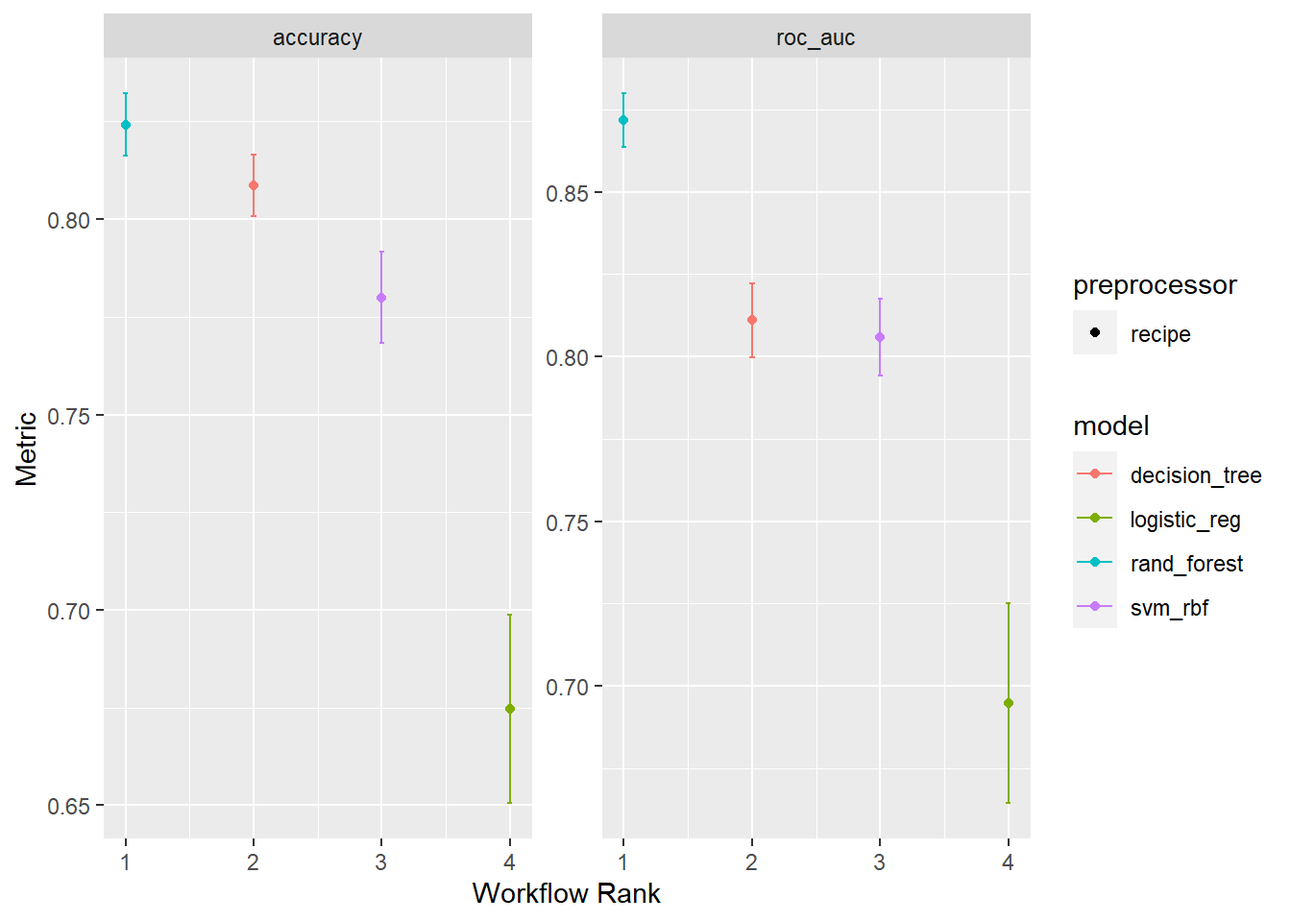
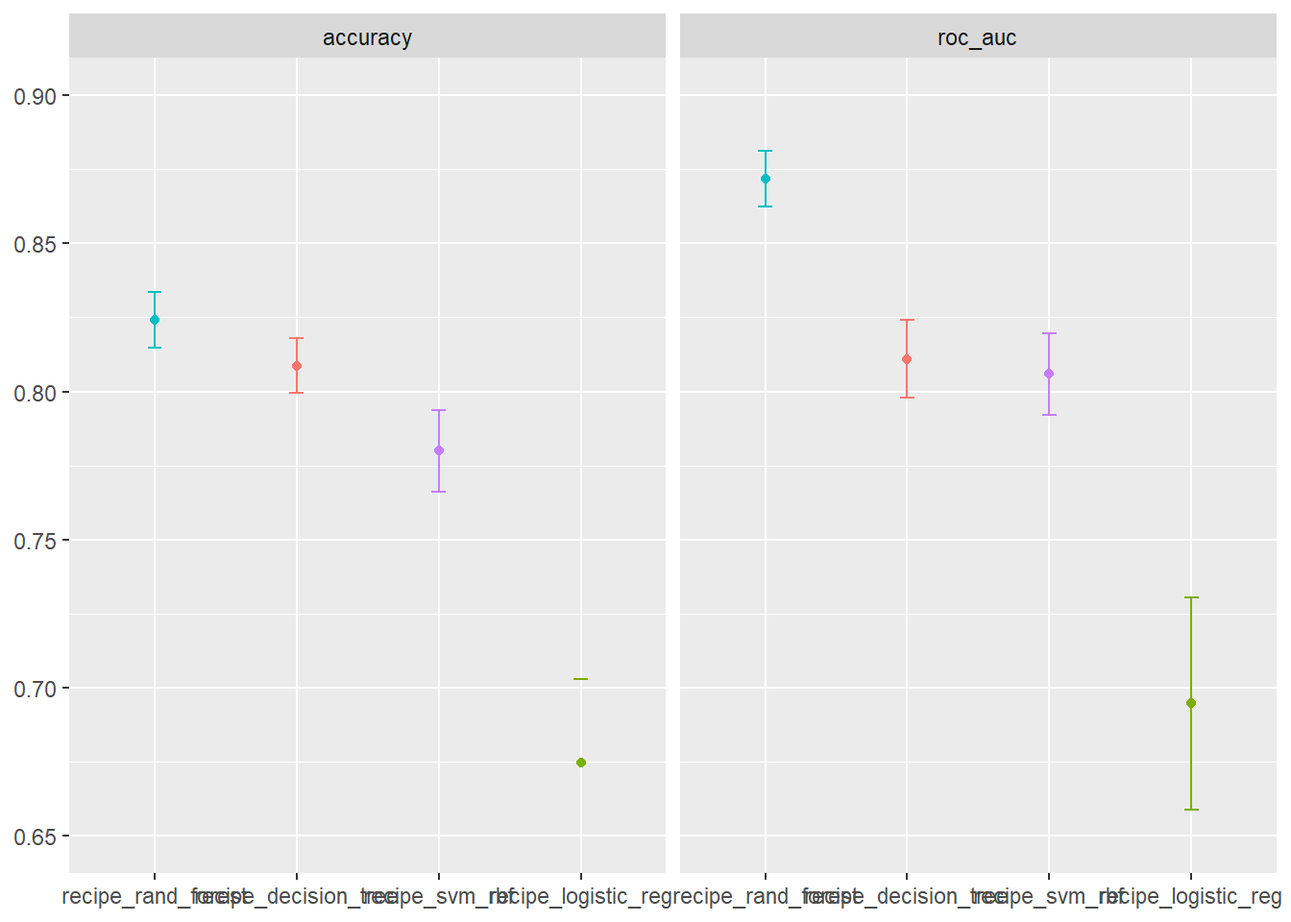
blog post ready to launch

diff --git a/_site/posts/2023-03-06-day-14-of-50daysofkaggle/index.html b/_site/posts/2023-03-06-day-14-of-50daysofkaggle/index.html
@@ -248,12 +248,14 @@ gtag('config', 'G-T5T39KBDW1', { 'anonymize_ip': true});
   <li><a href="#step-7-8-fitting-the-winner-and-predictions" id="toc-step-7-8-fitting-the-winner-and-predictions" class="nav-link" data-scroll-target="#step-7-8-fitting-the-winner-and-predictions">Step 7 &amp; 8: Fitting the winner and predictions</a></li>
   <li><a href="#step-9-submit-to-kaggle" id="toc-step-9-submit-to-kaggle" class="nav-link" data-scroll-target="#step-9-submit-to-kaggle">Step 9: Submit to Kaggle</a></li>
   </ul></li>
+  <li><a href="#understanding-variable-importance" id="toc-understanding-variable-importance" class="nav-link" data-scroll-target="#understanding-variable-importance">Understanding variable importance</a></li>
   <li><a href="#tailpiece-regarding-autoplot" id="toc-tailpiece-regarding-autoplot" class="nav-link" data-scroll-target="#tailpiece-regarding-autoplot">Tailpiece regarding <code>autoplot()</code></a>
   <ul class="collapse">
   <li><a href="#peeking-under-the-hood" id="toc-peeking-under-the-hood" class="nav-link" data-scroll-target="#peeking-under-the-hood">Peeking under the hood</a></li>
   <li><a href="#extracting-the-tibbles" id="toc-extracting-the-tibbles" class="nav-link" data-scroll-target="#extracting-the-tibbles">Extracting the tibbles</a></li>
   <li><a href="#manually-generated-plot" id="toc-manually-generated-plot" class="nav-link" data-scroll-target="#manually-generated-plot">Manually generated plot</a></li>
   </ul></li>
+  <li><a href="#section" id="toc-section" class="nav-link" data-scroll-target="#section"></a></li>
   </ul>
 </nav>
     </div>
@@ -441,7 +443,7 @@ $ source      &lt;chr&gt; "train", "train", "train", "train", "train", "train", 
 2 train         0     0      0     0     0</code></pre>
 </div>
 </div>
-<p>Phew. So age is covered. What are the median values now?</p>
+<p>Phew. So <strong>age</strong> is covered but one <code>NA</code> in <strong>fare</strong>. What are the median age values now?</p>
 <div class="cell">
 <details>
 <summary>Code</summary>
@@ -788,12 +790,8 @@ $ groups_in_ticket   &lt;int&gt; 1, 1, 1, 1, 1, 1, 1, 1, 1, 2, 1, 1, 1, 1, 1, 1,
 $ final_grouping     &lt;fct&gt; Kelly_33091, Wilkes_36327, Myles_24027, Wirz_31515,…</code></pre>
 </div>
 </div>
-<p>Phew. finally done with the pre-processing. Thanks for sticking around. Here have a gif</p>
-<div class="quarto-figure quarto-figure-center">
-<figure class="figure">
-<p><img src="https://media.giphy.com/media/lSVXGiITXtabGGxAyg/giphy.gif" class="img-fluid figure-img" width="240"></p>
-</figure>
-</div>
+<p>Phew. finally done with the pre-processing. Thanks for sticking around. Here have a gif.</p>
+<p><img src="https://media.giphy.com/media/lSVXGiITXtabGGxAyg/giphy.gif" class="img-fluid" style="width:75.0%"></p>
 </section>
 </section>
 <section id="model-building" class="level1">
@@ -959,7 +957,7 @@ $ final_grouping     &lt;fct&gt; Kelly_33091, Wilkes_36327, Myles_24027, Wirz_31
 <div class="sourceCode cell-code" id="cb49"><pre class="sourceCode r code-with-copy"><code class="sourceCode r"><span id="cb49-1"><a href="#cb49-1" aria-hidden="true" tabindex="-1"></a>end_time <span class="sc">-</span> start_time</span></code><button title="Copy to Clipboard" class="code-copy-button"><i class="bi"></i></button></pre></div>
 </details>
 <div class="cell-output cell-output-stdout">
-<pre><code>Time difference of 11.58433 mins</code></pre>
+<pre><code>Time difference of 10.71708 mins</code></pre>
 </div>
 </div>
 <p>Hmm… So moving on. What does the workflow_set object look like now?</p>
@@ -1111,12 +1109,8 @@ OOB prediction error (Brier s.):  0.1386875 </code></pre>
 </details>
 </div>
 <p>Uploaded it to Kaggle and behold…</p>
-<div class="quarto-figure quarto-figure-center">
-<figure class="figure">
-<p><img src="images/image-1373401355.png" class="img-fluid figure-img"></p>
-</figure>
-</div>
-<p>Not bad !!! that’s like top 12% percentile.</p>
+<p><img src="images/image-1373401355.png" class="img-fluid"></p>
+<p>Not bad !!! that’s like… top 12% percentile. Woohoo!</p>
 <div class="quarto-figure quarto-figure-center">
 <figure class="figure">
 <p><img src="https://media.giphy.com/media/7zYKTVt3vvbj7SC2Bl/giphy.gif" class="img-fluid figure-img" style="width:50.0%"></p>
@@ -1124,6 +1118,32 @@ OOB prediction error (Brier s.):  0.1386875 </code></pre>
 </figure>
 </div>
 </section>
+</section>
+<section id="understanding-variable-importance" class="level1">
+<h1>Understanding variable importance</h1>
+<p>Since we’ve got a random forest winner, I wanted to take a look at the importance of the variables used.</p>
+<p>Inspired from Julia’s <a href="https://juliasilge.com/blog/ikea-prices/">Tidy Tuesday on Ikea Prices</a>. For a ranger model, we do need to go back to the model specification itself and update the engine with <code>importance = "permutation"</code> in order to compute feature importance. This means fitting the model one more time.</p>
+<div class="cell">
+<details>
+<summary>Code</summary>
+<div class="sourceCode cell-code" id="cb63"><pre class="sourceCode r code-with-copy"><code class="sourceCode r"><span id="cb63-1"><a href="#cb63-1" aria-hidden="true" tabindex="-1"></a><span class="fu">library</span>(vip)</span>
+<span id="cb63-2"><a href="#cb63-2" aria-hidden="true" tabindex="-1"></a></span>
+<span id="cb63-3"><a href="#cb63-3" aria-hidden="true" tabindex="-1"></a>rf_model2 <span class="ot">&lt;-</span> <span class="fu">rand_forest</span>(<span class="at">trees =</span> <span class="dv">1000</span>) <span class="sc">%&gt;%</span> </span>
+<span id="cb63-4"><a href="#cb63-4" aria-hidden="true" tabindex="-1"></a>  <span class="fu">set_engine</span>(<span class="st">"ranger"</span>, <span class="at">importance =</span> <span class="st">"permutation"</span>) <span class="sc">%&gt;%</span> </span>
+<span id="cb63-5"><a href="#cb63-5" aria-hidden="true" tabindex="-1"></a>  <span class="fu">set_mode</span>(<span class="st">"classification"</span>)</span>
+<span id="cb63-6"><a href="#cb63-6" aria-hidden="true" tabindex="-1"></a></span>
+<span id="cb63-7"><a href="#cb63-7" aria-hidden="true" tabindex="-1"></a><span class="fu">workflow</span>() <span class="sc">%&gt;%</span> </span>
+<span id="cb63-8"><a href="#cb63-8" aria-hidden="true" tabindex="-1"></a>  <span class="fu">add_recipe</span>(base_recipe) <span class="sc">%&gt;%</span> </span>
+<span id="cb63-9"><a href="#cb63-9" aria-hidden="true" tabindex="-1"></a>  <span class="fu">add_model</span>(rf_model2) <span class="sc">%&gt;%</span> </span>
+<span id="cb63-10"><a href="#cb63-10" aria-hidden="true" tabindex="-1"></a>  <span class="fu">fit</span>(given_data) <span class="sc">%&gt;%</span> </span>
+<span id="cb63-11"><a href="#cb63-11" aria-hidden="true" tabindex="-1"></a>  <span class="fu">pull_workflow_fit</span>() <span class="sc">%&gt;%</span> </span>
+<span id="cb63-12"><a href="#cb63-12" aria-hidden="true" tabindex="-1"></a>  <span class="fu">vip</span>(<span class="at">aesthetics =</span> <span class="fu">list</span>(<span class="at">alpha=</span> <span class="fl">0.8</span>, <span class="at">fill =</span> <span class="st">"green"</span>))</span></code><button title="Copy to Clipboard" class="code-copy-button"><i class="bi"></i></button></pre></div>
+</details>
+<div class="cell-output-display">
+<p><img src="index_files/figure-html/unnamed-chunk-37-1.png" class="img-fluid" width="672"></p>
+</div>
+</div>
+<p>This is interesting to me. While I was expecting the <strong>gender</strong> and <strong>class</strong> predictors to play an important part in the model, other grouped columns like <strong>family_count, pax_in_group &amp; pax_in_ticket_head</strong> also added in improving the accuracy.</p>
 </section>
 <section id="tailpiece-regarding-autoplot" class="level1">
 <h1>Tailpiece regarding <code>autoplot()</code></h1>
@@ -1138,7 +1158,7 @@ OOB prediction error (Brier s.):  0.1386875 </code></pre>
 <div class="cell">
 <details>
 <summary>Code</summary>
-<div class="sourceCode cell-code" id="cb63"><pre class="sourceCode r code-with-copy"><code class="sourceCode r"><span id="cb63-1"><a href="#cb63-1" aria-hidden="true" tabindex="-1"></a><span class="fu">class</span>(titanic_rs)</span></code><button title="Copy to Clipboard" class="code-copy-button"><i class="bi"></i></button></pre></div>
+<div class="sourceCode cell-code" id="cb64"><pre class="sourceCode r code-with-copy"><code class="sourceCode r"><span id="cb64-1"><a href="#cb64-1" aria-hidden="true" tabindex="-1"></a><span class="fu">class</span>(titanic_rs)</span></code><button title="Copy to Clipboard" class="code-copy-button"><i class="bi"></i></button></pre></div>
 </details>
 <div class="cell-output cell-output-stdout">
 <pre><code>[1] "workflow_set" "tbl_df"       "tbl"          "data.frame"  </code></pre>
@@ -1148,7 +1168,7 @@ OOB prediction error (Brier s.):  0.1386875 </code></pre>
 <div class="cell">
 <details>
 <summary>Code</summary>
-<div class="sourceCode cell-code" id="cb65"><pre class="sourceCode r code-with-copy"><code class="sourceCode r"><span id="cb65-1"><a href="#cb65-1" aria-hidden="true" tabindex="-1"></a>titanic_rs</span></code><button title="Copy to Clipboard" class="code-copy-button"><i class="bi"></i></button></pre></div>
+<div class="sourceCode cell-code" id="cb66"><pre class="sourceCode r code-with-copy"><code class="sourceCode r"><span id="cb66-1"><a href="#cb66-1" aria-hidden="true" tabindex="-1"></a>titanic_rs</span></code><button title="Copy to Clipboard" class="code-copy-button"><i class="bi"></i></button></pre></div>
 </details>
 <div class="cell-output cell-output-stdout">
 <pre><code># A workflow set/tibble: 4 × 4
@@ -1164,7 +1184,7 @@ OOB prediction error (Brier s.):  0.1386875 </code></pre>
 <div class="cell">
 <details>
 <summary>Code</summary>
-<div class="sourceCode cell-code" id="cb67"><pre class="sourceCode r code-with-copy"><code class="sourceCode r"><span id="cb67-1"><a href="#cb67-1" aria-hidden="true" tabindex="-1"></a>titanic_rs<span class="sc">$</span>result[[<span class="dv">1</span>]]</span></code><button title="Copy to Clipboard" class="code-copy-button"><i class="bi"></i></button></pre></div>
+<div class="sourceCode cell-code" id="cb68"><pre class="sourceCode r code-with-copy"><code class="sourceCode r"><span id="cb68-1"><a href="#cb68-1" aria-hidden="true" tabindex="-1"></a>titanic_rs<span class="sc">$</span>result[[<span class="dv">1</span>]]</span></code><button title="Copy to Clipboard" class="code-copy-button"><i class="bi"></i></button></pre></div>
 </details>
 <div class="cell-output cell-output-stdout">
 <pre><code># Resampling results
@@ -1199,7 +1219,7 @@ Run `show_notes(.Last.tune.result)` for more information.</code></pre>
 <div class="cell">
 <details>
 <summary>Code</summary>
-<div class="sourceCode cell-code" id="cb69"><pre class="sourceCode r code-with-copy"><code class="sourceCode r"><span id="cb69-1"><a href="#cb69-1" aria-hidden="true" tabindex="-1"></a>titanic_rs<span class="sc">$</span>result[[<span class="dv">1</span>]]<span class="sc">$</span>.metrics[[<span class="dv">1</span>]]</span></code><button title="Copy to Clipboard" class="code-copy-button"><i class="bi"></i></button></pre></div>
+<div class="sourceCode cell-code" id="cb70"><pre class="sourceCode r code-with-copy"><code class="sourceCode r"><span id="cb70-1"><a href="#cb70-1" aria-hidden="true" tabindex="-1"></a>titanic_rs<span class="sc">$</span>result[[<span class="dv">1</span>]]<span class="sc">$</span>.metrics[[<span class="dv">1</span>]]</span></code><button title="Copy to Clipboard" class="code-copy-button"><i class="bi"></i></button></pre></div>
 </details>
 <div class="cell-output cell-output-stdout">
 <pre><code># A tibble: 2 × 4
@@ -1216,12 +1236,12 @@ Run `show_notes(.Last.tune.result)` for more information.</code></pre>
 <div class="cell">
 <details>
 <summary>Code</summary>
-<div class="sourceCode cell-code" id="cb71"><pre class="sourceCode r code-with-copy"><code class="sourceCode r"><span id="cb71-1"><a href="#cb71-1" aria-hidden="true" tabindex="-1"></a>tidy_titanic_rs <span class="ot">&lt;-</span> <span class="fu">tibble</span>(<span class="at">wf =</span> <span class="fu">rep</span>(<span class="fu">unique</span>(titanic_rs<span class="sc">$</span>wflow_id), <span class="dv">15</span><span class="sc">*</span><span class="dv">2</span>),</span>
-<span id="cb71-2"><a href="#cb71-2" aria-hidden="true" tabindex="-1"></a>                          <span class="at">metrics =</span> <span class="fu">rep</span>(<span class="fu">c</span>(<span class="fu">rep</span>(<span class="st">"accuracy"</span>, <span class="dv">4</span>), </span>
-<span id="cb71-3"><a href="#cb71-3" aria-hidden="true" tabindex="-1"></a>                                          <span class="fu">rep</span>(<span class="st">"roc_auc"</span>,<span class="dv">4</span>)),</span>
-<span id="cb71-4"><a href="#cb71-4" aria-hidden="true" tabindex="-1"></a>                                        <span class="dv">15</span>),</span>
-<span id="cb71-5"><a href="#cb71-5" aria-hidden="true" tabindex="-1"></a>                          <span class="at">values =</span> <span class="fu">rep</span>(<span class="cn">NA</span>, <span class="dv">4</span><span class="sc">*</span><span class="dv">15</span><span class="sc">*</span><span class="dv">2</span>))</span>
-<span id="cb71-6"><a href="#cb71-6" aria-hidden="true" tabindex="-1"></a><span class="fu">head</span>(tidy_titanic_rs, <span class="dv">8</span>)</span></code><button title="Copy to Clipboard" class="code-copy-button"><i class="bi"></i></button></pre></div>
+<div class="sourceCode cell-code" id="cb72"><pre class="sourceCode r code-with-copy"><code class="sourceCode r"><span id="cb72-1"><a href="#cb72-1" aria-hidden="true" tabindex="-1"></a>tidy_titanic_rs <span class="ot">&lt;-</span> <span class="fu">tibble</span>(<span class="at">wf =</span> <span class="fu">rep</span>(<span class="fu">unique</span>(titanic_rs<span class="sc">$</span>wflow_id), <span class="dv">15</span><span class="sc">*</span><span class="dv">2</span>),</span>
+<span id="cb72-2"><a href="#cb72-2" aria-hidden="true" tabindex="-1"></a>                          <span class="at">metrics =</span> <span class="fu">rep</span>(<span class="fu">c</span>(<span class="fu">rep</span>(<span class="st">"accuracy"</span>, <span class="dv">4</span>), </span>
+<span id="cb72-3"><a href="#cb72-3" aria-hidden="true" tabindex="-1"></a>                                          <span class="fu">rep</span>(<span class="st">"roc_auc"</span>,<span class="dv">4</span>)),</span>
+<span id="cb72-4"><a href="#cb72-4" aria-hidden="true" tabindex="-1"></a>                                        <span class="dv">15</span>),</span>
+<span id="cb72-5"><a href="#cb72-5" aria-hidden="true" tabindex="-1"></a>                          <span class="at">values =</span> <span class="fu">rep</span>(<span class="cn">NA</span>, <span class="dv">4</span><span class="sc">*</span><span class="dv">15</span><span class="sc">*</span><span class="dv">2</span>))</span>
+<span id="cb72-6"><a href="#cb72-6" aria-hidden="true" tabindex="-1"></a><span class="fu">head</span>(tidy_titanic_rs, <span class="dv">8</span>)</span></code><button title="Copy to Clipboard" class="code-copy-button"><i class="bi"></i></button></pre></div>
 </details>
 <div class="cell-output cell-output-stdout">
 <pre><code># A tibble: 8 × 3
@@ -1241,7 +1261,7 @@ Run `show_notes(.Last.tune.result)` for more information.</code></pre>
 <div class="cell">
 <details>
 <summary>Code</summary>
-<div class="sourceCode cell-code" id="cb73"><pre class="sourceCode r code-with-copy"><code class="sourceCode r"><span id="cb73-1"><a href="#cb73-1" aria-hidden="true" tabindex="-1"></a><span class="fu">dim</span>(tidy_titanic_rs)</span></code><button title="Copy to Clipboard" class="code-copy-button"><i class="bi"></i></button></pre></div>
+<div class="sourceCode cell-code" id="cb74"><pre class="sourceCode r code-with-copy"><code class="sourceCode r"><span id="cb74-1"><a href="#cb74-1" aria-hidden="true" tabindex="-1"></a><span class="fu">dim</span>(tidy_titanic_rs)</span></code><button title="Copy to Clipboard" class="code-copy-button"><i class="bi"></i></button></pre></div>
 </details>
 <div class="cell-output cell-output-stdout">
 <pre><code>[1] 120   3</code></pre>
@@ -1255,32 +1275,32 @@ Run `show_notes(.Last.tune.result)` for more information.</code></pre>
 <div class="cell">
 <details>
 <summary>Code</summary>
-<div class="sourceCode cell-code" id="cb75"><pre class="sourceCode r code-with-copy"><code class="sourceCode r"><span id="cb75-1"><a href="#cb75-1" aria-hidden="true" tabindex="-1"></a>bigtable <span class="ot">&lt;-</span> purrr<span class="sc">:::</span><span class="fu">pluck</span>(titanic_rs, <span class="dv">4</span>)</span>
-<span id="cb75-2"><a href="#cb75-2" aria-hidden="true" tabindex="-1"></a>wflow_id_titanic <span class="ot">&lt;-</span> <span class="fu">unique</span>(titanic_rs<span class="sc">$</span>wflow_id)</span>
-<span id="cb75-3"><a href="#cb75-3" aria-hidden="true" tabindex="-1"></a><span class="cf">for</span>(i <span class="cf">in</span> <span class="dv">1</span><span class="sc">:</span><span class="fu">length</span>(wflow_id_titanic)){</span>
-<span id="cb75-4"><a href="#cb75-4" aria-hidden="true" tabindex="-1"></a>    </span>
-<span id="cb75-5"><a href="#cb75-5" aria-hidden="true" tabindex="-1"></a>  wflow_id <span class="ot">&lt;-</span> wflow_id_titanic[i]</span>
-<span id="cb75-6"><a href="#cb75-6" aria-hidden="true" tabindex="-1"></a>  smalltable <span class="ot">&lt;-</span> bigtable[[i]]</span>
-<span id="cb75-7"><a href="#cb75-7" aria-hidden="true" tabindex="-1"></a>  </span>
-<span id="cb75-8"><a href="#cb75-8" aria-hidden="true" tabindex="-1"></a>  <span class="cf">for</span>(j <span class="cf">in</span> <span class="dv">1</span><span class="sc">:</span><span class="fu">length</span>(smalltable<span class="sc">$</span>.metrics)){</span>
-<span id="cb75-9"><a href="#cb75-9" aria-hidden="true" tabindex="-1"></a>    smallertable <span class="ot">&lt;-</span> purrr<span class="sc">::</span><span class="fu">pluck</span>(smalltable<span class="sc">$</span>.metrics, j)</span>
-<span id="cb75-10"><a href="#cb75-10" aria-hidden="true" tabindex="-1"></a>    tidy_titanic_rs<span class="sc">$</span>values[(tidy_titanic_rs<span class="sc">$</span>wf<span class="sc">==</span>wflow_id <span class="sc">&amp;</span> </span>
-<span id="cb75-11"><a href="#cb75-11" aria-hidden="true" tabindex="-1"></a>                              tidy_titanic_rs<span class="sc">$</span>metrics<span class="sc">==</span><span class="st">"accuracy"</span>)][j] <span class="ot">&lt;-</span> smallertable<span class="sc">$</span>.estimate[smallertable<span class="sc">$</span>.metric <span class="sc">==</span> <span class="st">"accuracy"</span>]</span>
-<span id="cb75-12"><a href="#cb75-12" aria-hidden="true" tabindex="-1"></a>    tidy_titanic_rs<span class="sc">$</span>values[(tidy_titanic_rs<span class="sc">$</span>wf<span class="sc">==</span>wflow_id <span class="sc">&amp;</span> </span>
-<span id="cb75-13"><a href="#cb75-13" aria-hidden="true" tabindex="-1"></a>                              tidy_titanic_rs<span class="sc">$</span>metrics<span class="sc">==</span><span class="st">"roc_auc"</span>)][j] <span class="ot">&lt;-</span> smallertable<span class="sc">$</span>.estimate[smallertable<span class="sc">$</span>.metric <span class="sc">==</span> <span class="st">"roc_auc"</span>]</span>
-<span id="cb75-14"><a href="#cb75-14" aria-hidden="true" tabindex="-1"></a>    </span>
-<span id="cb75-15"><a href="#cb75-15" aria-hidden="true" tabindex="-1"></a>  }</span>
-<span id="cb75-16"><a href="#cb75-16" aria-hidden="true" tabindex="-1"></a>}</span>
-<span id="cb75-17"><a href="#cb75-17" aria-hidden="true" tabindex="-1"></a></span>
-<span id="cb75-18"><a href="#cb75-18" aria-hidden="true" tabindex="-1"></a>tidy_titanic_rs2 <span class="ot">&lt;-</span> tidy_titanic_rs <span class="sc">%&gt;%</span> </span>
-<span id="cb75-19"><a href="#cb75-19" aria-hidden="true" tabindex="-1"></a>  <span class="fu">group_by</span>(wf, metrics) <span class="sc">%&gt;%</span> </span>
-<span id="cb75-20"><a href="#cb75-20" aria-hidden="true" tabindex="-1"></a>  <span class="fu">summarise</span>(<span class="at">value_min =</span> <span class="fu">mean</span>(values) <span class="sc">-</span> <span class="fl">0.5</span><span class="sc">*</span><span class="fu">sd</span>(values),</span>
-<span id="cb75-21"><a href="#cb75-21" aria-hidden="true" tabindex="-1"></a>            <span class="at">value_max =</span> <span class="fu">mean</span>(values) <span class="sc">+</span> <span class="fl">0.5</span><span class="sc">*</span><span class="fu">sd</span>(values),</span>
-<span id="cb75-22"><a href="#cb75-22" aria-hidden="true" tabindex="-1"></a>            <span class="at">value_mean =</span> <span class="fu">mean</span>(values)) <span class="sc">%&gt;%</span> <span class="fu">ungroup</span>() <span class="sc">%&gt;%</span> </span>
-<span id="cb75-23"><a href="#cb75-23" aria-hidden="true" tabindex="-1"></a>  <span class="fu">right_join</span>(tidy_titanic_rs, <span class="at">by =</span> <span class="fu">c</span>(<span class="st">"wf"</span>, <span class="st">"metrics"</span>))</span></code><button title="Copy to Clipboard" class="code-copy-button"><i class="bi"></i></button></pre></div>
+<div class="sourceCode cell-code" id="cb76"><pre class="sourceCode r code-with-copy"><code class="sourceCode r"><span id="cb76-1"><a href="#cb76-1" aria-hidden="true" tabindex="-1"></a>bigtable <span class="ot">&lt;-</span> purrr<span class="sc">:::</span><span class="fu">pluck</span>(titanic_rs, <span class="dv">4</span>)</span>
+<span id="cb76-2"><a href="#cb76-2" aria-hidden="true" tabindex="-1"></a>wflow_id_titanic <span class="ot">&lt;-</span> <span class="fu">unique</span>(titanic_rs<span class="sc">$</span>wflow_id)</span>
+<span id="cb76-3"><a href="#cb76-3" aria-hidden="true" tabindex="-1"></a><span class="cf">for</span>(i <span class="cf">in</span> <span class="dv">1</span><span class="sc">:</span><span class="fu">length</span>(wflow_id_titanic)){</span>
+<span id="cb76-4"><a href="#cb76-4" aria-hidden="true" tabindex="-1"></a>    </span>
+<span id="cb76-5"><a href="#cb76-5" aria-hidden="true" tabindex="-1"></a>  wflow_id <span class="ot">&lt;-</span> wflow_id_titanic[i]</span>
+<span id="cb76-6"><a href="#cb76-6" aria-hidden="true" tabindex="-1"></a>  smalltable <span class="ot">&lt;-</span> bigtable[[i]]</span>
+<span id="cb76-7"><a href="#cb76-7" aria-hidden="true" tabindex="-1"></a>  </span>
+<span id="cb76-8"><a href="#cb76-8" aria-hidden="true" tabindex="-1"></a>  <span class="cf">for</span>(j <span class="cf">in</span> <span class="dv">1</span><span class="sc">:</span><span class="fu">length</span>(smalltable<span class="sc">$</span>.metrics)){</span>
+<span id="cb76-9"><a href="#cb76-9" aria-hidden="true" tabindex="-1"></a>    smallertable <span class="ot">&lt;-</span> purrr<span class="sc">::</span><span class="fu">pluck</span>(smalltable<span class="sc">$</span>.metrics, j)</span>
+<span id="cb76-10"><a href="#cb76-10" aria-hidden="true" tabindex="-1"></a>    tidy_titanic_rs<span class="sc">$</span>values[(tidy_titanic_rs<span class="sc">$</span>wf<span class="sc">==</span>wflow_id <span class="sc">&amp;</span> </span>
+<span id="cb76-11"><a href="#cb76-11" aria-hidden="true" tabindex="-1"></a>                              tidy_titanic_rs<span class="sc">$</span>metrics<span class="sc">==</span><span class="st">"accuracy"</span>)][j] <span class="ot">&lt;-</span> smallertable<span class="sc">$</span>.estimate[smallertable<span class="sc">$</span>.metric <span class="sc">==</span> <span class="st">"accuracy"</span>]</span>
+<span id="cb76-12"><a href="#cb76-12" aria-hidden="true" tabindex="-1"></a>    tidy_titanic_rs<span class="sc">$</span>values[(tidy_titanic_rs<span class="sc">$</span>wf<span class="sc">==</span>wflow_id <span class="sc">&amp;</span> </span>
+<span id="cb76-13"><a href="#cb76-13" aria-hidden="true" tabindex="-1"></a>                              tidy_titanic_rs<span class="sc">$</span>metrics<span class="sc">==</span><span class="st">"roc_auc"</span>)][j] <span class="ot">&lt;-</span> smallertable<span class="sc">$</span>.estimate[smallertable<span class="sc">$</span>.metric <span class="sc">==</span> <span class="st">"roc_auc"</span>]</span>
+<span id="cb76-14"><a href="#cb76-14" aria-hidden="true" tabindex="-1"></a>    </span>
+<span id="cb76-15"><a href="#cb76-15" aria-hidden="true" tabindex="-1"></a>  }</span>
+<span id="cb76-16"><a href="#cb76-16" aria-hidden="true" tabindex="-1"></a>}</span>
+<span id="cb76-17"><a href="#cb76-17" aria-hidden="true" tabindex="-1"></a></span>
+<span id="cb76-18"><a href="#cb76-18" aria-hidden="true" tabindex="-1"></a>tidy_titanic_rs2 <span class="ot">&lt;-</span> tidy_titanic_rs <span class="sc">%&gt;%</span> </span>
+<span id="cb76-19"><a href="#cb76-19" aria-hidden="true" tabindex="-1"></a>  <span class="fu">group_by</span>(wf, metrics) <span class="sc">%&gt;%</span> </span>
+<span id="cb76-20"><a href="#cb76-20" aria-hidden="true" tabindex="-1"></a>  <span class="fu">summarise</span>(<span class="at">value_min =</span> <span class="fu">mean</span>(values) <span class="sc">-</span> <span class="fl">0.5</span><span class="sc">*</span><span class="fu">sd</span>(values),</span>
+<span id="cb76-21"><a href="#cb76-21" aria-hidden="true" tabindex="-1"></a>            <span class="at">value_max =</span> <span class="fu">mean</span>(values) <span class="sc">+</span> <span class="fl">0.5</span><span class="sc">*</span><span class="fu">sd</span>(values),</span>
+<span id="cb76-22"><a href="#cb76-22" aria-hidden="true" tabindex="-1"></a>            <span class="at">value_mean =</span> <span class="fu">mean</span>(values)) <span class="sc">%&gt;%</span> <span class="fu">ungroup</span>() <span class="sc">%&gt;%</span> </span>
+<span id="cb76-23"><a href="#cb76-23" aria-hidden="true" tabindex="-1"></a>  <span class="fu">right_join</span>(tidy_titanic_rs, <span class="at">by =</span> <span class="fu">c</span>(<span class="st">"wf"</span>, <span class="st">"metrics"</span>))</span></code><button title="Copy to Clipboard" class="code-copy-button"><i class="bi"></i></button></pre></div>
 </details>
 </div>
-<p>For some reason, <code>value_max</code> and <code>value_min</code> for the error-bar are 0.5 * 𝝈 or approximately <a href="https://mathbitsnotebook.com/Algebra2/Statistics/STstandardNormalDistribution.html#:~:text=Reading%20from%20the%20chart%2C%20it,or%20left">±19% of the mean of values</a>%20of%20the%20mean.)</p>
+<p>For some reason, <code>value_max</code> and <code>value_min</code> for the error-bar are 0.5 * 𝝈 or approximately <a href="https://mathbitsnotebook.com/Algebra2/Statistics/STstandardNormalDistribution.html">±19% of the mean of values</a></p>
 </section>
 <section id="manually-generated-plot" class="level2">
 <h2 class="anchored" data-anchor-id="manually-generated-plot">Manually generated plot</h2>
@@ -1289,31 +1309,31 @@ Run `show_notes(.Last.tune.result)` for more information.</code></pre>
 <div class="cell">
 <details>
 <summary>Code</summary>
-<div class="sourceCode cell-code" id="cb76"><pre class="sourceCode r code-with-copy"><code class="sourceCode r"><span id="cb76-1"><a href="#cb76-1" aria-hidden="true" tabindex="-1"></a>tidy_titanic_rs2 <span class="sc">%&gt;%</span> </span>
-<span id="cb76-2"><a href="#cb76-2" aria-hidden="true" tabindex="-1"></a><span class="fu">ggplot</span>(<span class="fu">aes</span>(<span class="at">x =</span> <span class="fu">reorder</span>(wf, <span class="fu">desc</span>(value_mean)), </span>
-<span id="cb76-3"><a href="#cb76-3" aria-hidden="true" tabindex="-1"></a>             <span class="at">y =</span> values, </span>
-<span id="cb76-4"><a href="#cb76-4" aria-hidden="true" tabindex="-1"></a>             <span class="at">color =</span> wf))<span class="sc">+</span></span>
-<span id="cb76-5"><a href="#cb76-5" aria-hidden="true" tabindex="-1"></a>  <span class="fu">geom_errorbar</span>(<span class="fu">aes</span>(<span class="at">ymax =</span> value_max, <span class="at">ymin =</span> value_min), </span>
-<span id="cb76-6"><a href="#cb76-6" aria-hidden="true" tabindex="-1"></a>                <span class="at">width =</span> <span class="fl">0.1</span>)<span class="sc">+</span></span>
-<span id="cb76-7"><a href="#cb76-7" aria-hidden="true" tabindex="-1"></a>  <span class="fu">geom_point</span>(<span class="fu">aes</span>(<span class="at">y=</span> value_mean))<span class="sc">+</span></span>
-<span id="cb76-8"><a href="#cb76-8" aria-hidden="true" tabindex="-1"></a>  <span class="fu">scale_y_continuous</span>(<span class="at">breaks =</span> <span class="fu">seq</span>(<span class="fl">0.65</span>, <span class="fl">0.9</span>, <span class="fl">0.05</span>),</span>
-<span id="cb76-9"><a href="#cb76-9" aria-hidden="true" tabindex="-1"></a>                     <span class="at">limits =</span> <span class="fu">c</span>(<span class="fl">0.65</span>, <span class="fl">0.9</span>))<span class="sc">+</span></span>
-<span id="cb76-10"><a href="#cb76-10" aria-hidden="true" tabindex="-1"></a>  <span class="fu">theme</span>(<span class="at">legend.position =</span> <span class="st">"none"</span>)<span class="sc">+</span></span>
-<span id="cb76-11"><a href="#cb76-11" aria-hidden="true" tabindex="-1"></a>  <span class="fu">labs</span>(<span class="at">x =</span> <span class="cn">NULL</span>, <span class="at">y =</span> <span class="cn">NULL</span>)<span class="sc">+</span></span>
-<span id="cb76-12"><a href="#cb76-12" aria-hidden="true" tabindex="-1"></a>  <span class="fu">facet_wrap</span>(<span class="sc">~</span>metrics)</span></code><button title="Copy to Clipboard" class="code-copy-button"><i class="bi"></i></button></pre></div>
+<div class="sourceCode cell-code" id="cb77"><pre class="sourceCode r code-with-copy"><code class="sourceCode r"><span id="cb77-1"><a href="#cb77-1" aria-hidden="true" tabindex="-1"></a>tidy_titanic_rs2 <span class="sc">%&gt;%</span> </span>
+<span id="cb77-2"><a href="#cb77-2" aria-hidden="true" tabindex="-1"></a><span class="fu">ggplot</span>(<span class="fu">aes</span>(<span class="at">x =</span> <span class="fu">reorder</span>(wf, <span class="fu">desc</span>(value_mean)), </span>
+<span id="cb77-3"><a href="#cb77-3" aria-hidden="true" tabindex="-1"></a>             <span class="at">y =</span> values, </span>
+<span id="cb77-4"><a href="#cb77-4" aria-hidden="true" tabindex="-1"></a>             <span class="at">color =</span> wf))<span class="sc">+</span></span>
+<span id="cb77-5"><a href="#cb77-5" aria-hidden="true" tabindex="-1"></a>  <span class="fu">geom_errorbar</span>(<span class="fu">aes</span>(<span class="at">ymax =</span> value_max, <span class="at">ymin =</span> value_min), </span>
+<span id="cb77-6"><a href="#cb77-6" aria-hidden="true" tabindex="-1"></a>                <span class="at">width =</span> <span class="fl">0.1</span>)<span class="sc">+</span></span>
+<span id="cb77-7"><a href="#cb77-7" aria-hidden="true" tabindex="-1"></a>  <span class="fu">geom_point</span>(<span class="fu">aes</span>(<span class="at">y=</span> value_mean))<span class="sc">+</span></span>
+<span id="cb77-8"><a href="#cb77-8" aria-hidden="true" tabindex="-1"></a>  <span class="fu">scale_y_continuous</span>(<span class="at">breaks =</span> <span class="fu">seq</span>(<span class="fl">0.65</span>, <span class="fl">0.9</span>, <span class="fl">0.05</span>),</span>
+<span id="cb77-9"><a href="#cb77-9" aria-hidden="true" tabindex="-1"></a>                     <span class="at">limits =</span> <span class="fu">c</span>(<span class="fl">0.65</span>, <span class="fl">0.9</span>))<span class="sc">+</span></span>
+<span id="cb77-10"><a href="#cb77-10" aria-hidden="true" tabindex="-1"></a>  <span class="fu">theme</span>(<span class="at">legend.position =</span> <span class="st">"none"</span>)<span class="sc">+</span></span>
+<span id="cb77-11"><a href="#cb77-11" aria-hidden="true" tabindex="-1"></a>  <span class="fu">labs</span>(<span class="at">x =</span> <span class="cn">NULL</span>, <span class="at">y =</span> <span class="cn">NULL</span>)<span class="sc">+</span></span>
+<span id="cb77-12"><a href="#cb77-12" aria-hidden="true" tabindex="-1"></a>  <span class="fu">facet_wrap</span>(<span class="sc">~</span>metrics)</span></code><button title="Copy to Clipboard" class="code-copy-button"><i class="bi"></i></button></pre></div>
 </details>
 <div class="cell-output-display">
-<p><img src="index_files/figure-html/unnamed-chunk-44-1.png" class="img-fluid" width="672"></p>
+<p><img src="index_files/figure-html/unnamed-chunk-45-1.png" class="img-fluid" width="672"></p>
 </div>
 </div>
 <p>And here once again is the auto-generated plot. Not bad, eh?</p>
 <div class="cell">
 <details>
 <summary>Code</summary>
-<div class="sourceCode cell-code" id="cb77"><pre class="sourceCode r code-with-copy"><code class="sourceCode r"><span id="cb77-1"><a href="#cb77-1" aria-hidden="true" tabindex="-1"></a><span class="fu">autoplot</span>(titanic_rs)</span></code><button title="Copy to Clipboard" class="code-copy-button"><i class="bi"></i></button></pre></div>
+<div class="sourceCode cell-code" id="cb78"><pre class="sourceCode r code-with-copy"><code class="sourceCode r"><span id="cb78-1"><a href="#cb78-1" aria-hidden="true" tabindex="-1"></a><span class="fu">autoplot</span>(titanic_rs)</span></code><button title="Copy to Clipboard" class="code-copy-button"><i class="bi"></i></button></pre></div>
 </details>
 <div class="cell-output-display">
-<p><img src="index_files/figure-html/unnamed-chunk-45-1.png" class="img-fluid" width="672"></p>
+<p><img src="index_files/figure-html/unnamed-chunk-46-1.png" class="img-fluid" width="672"></p>
 </div>
 </div>
 <div class="quarto-figure quarto-figure-center">
@@ -1322,9 +1342,12 @@ Run `show_notes(.Last.tune.result)` for more information.</code></pre>
 <p></p><figcaption class="figure-caption">Oooh yeeah!</figcaption><p></p>
 </figure>
 </div>
-
-
 </section>
+</section>
+<section id="section" class="level1">
+<h1></h1>
+
+
 </section>
 
 </main> <!-- /main -->

diff --git a/_site/index.html b/_site/index.html
@@ -213,7 +213,7 @@ gtag('config', 'G-T5T39KBDW1', { 'anonymize_ip': true});
     </div>
 </div>
 <div class="list quarto-listing-default">
-<div class="quarto-post image-right" data-index="0" data-categories="R,kaggle" data-listing-date-sort="1679250600000" data-listing-file-modified-sort="1679334056470" data-listing-reading-time-sort="18.17">
+<div class="quarto-post image-right" data-index="0" data-categories="R,kaggle" data-listing-date-sort="1679250600000" data-listing-file-modified-sort="1679383283615" data-listing-reading-time-sort="18.905">
 <div class="thumbnail">
 <p><a href="./posts/2023-03-06-day-14-of-50daysofkaggle/index.html"> <img src="./posts/2023-03-06-day-14-of-50daysofkaggle/Rplot.png" class="thumnail-image"> </a></p>
 </div>
